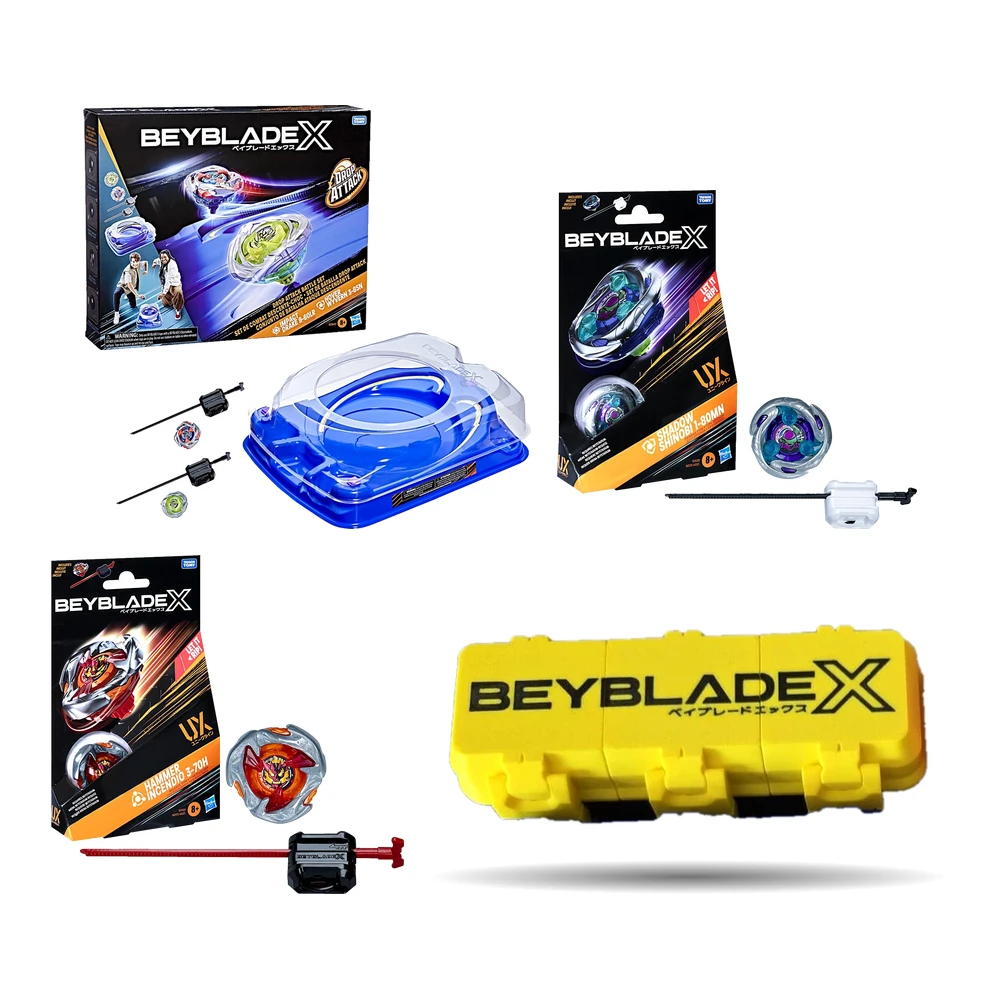
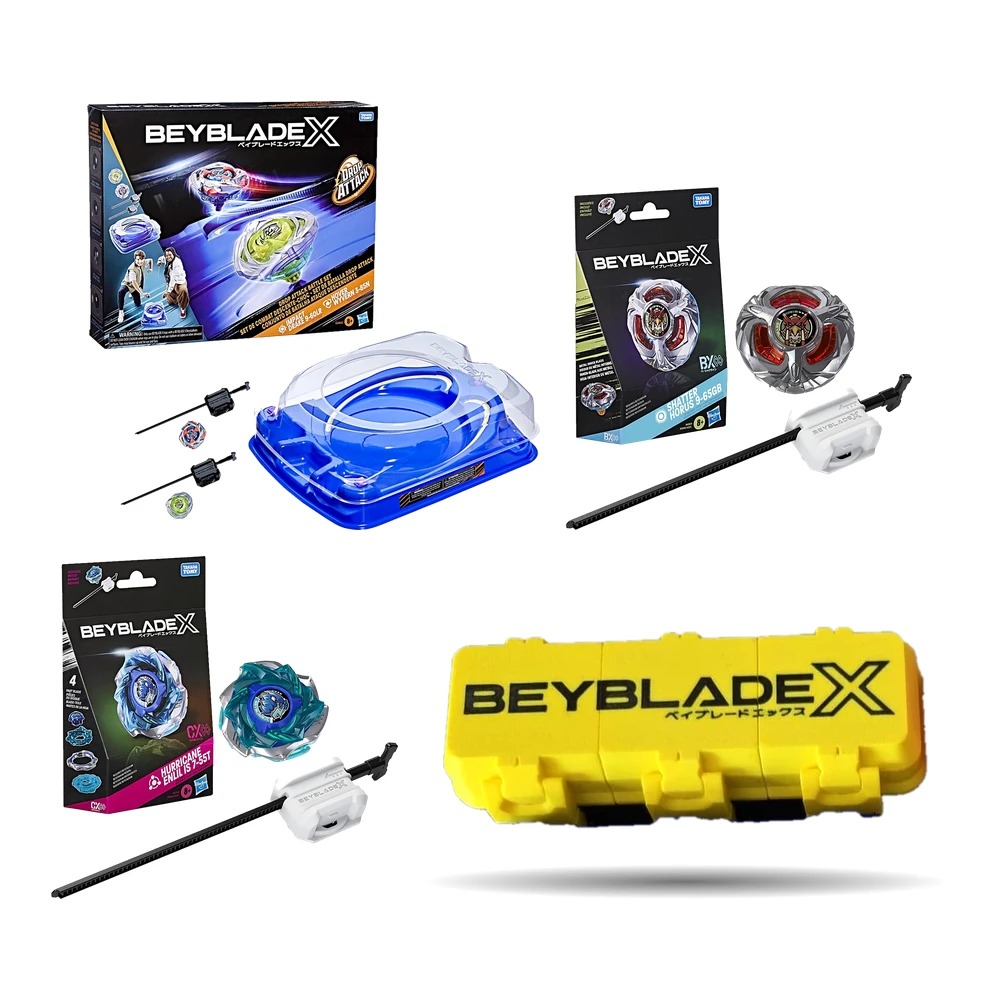
A Deck da Torneo at 59,90, kits that stop waiting on Hammer Incendio, and Phoenix and Cobalt Dragoon a few euros under the other shops
The owner, 19/11, on the proposal that came out of the sales, stock and competitor check: new packs
built on the deepest shelves, prices a few euros under the Italian competitors.

- Soar Phoenix 9-60GF 24,90 → 19,90 (other shops 24,99-30,49; ~180 on the shelf, 11 sold in 90 days).
- Cobalt Dragoon 2-60C 19,90 → 17,90 (Amazon asked 18,90 on 15/10).
- Deck da Torneo, new, first among the offers: Glory Valkerion + Cobalt Dragoon + Soar Phoenix +
  the yellow deck case at 59,90 instead of 75,79.
- The three kits all held Hammer Incendio, which is down to three pieces. The arena kits now carry
  Shatter Horus + Hurricane Enlil, the Kit Doppio Starter Shadow Shinobi + Shatter Horus: same sum
  of list prices, so every kit keeps its price and compare-at. Shadow stays in the Kit Doppio
  because Horus + Enlil + case would cost more than the Horus x Enlil duo with a case at the kit
  price beside it.
- Packs holding Phoenix or Cobalt keep their price; their compare-at and "Risparmi" follow the
  pieces (Pack Meta Luster 103,86, Phoenix 107,77, Silver Wolf 102,77, Deck Completo 41,88).

Pack shots from compose_bundle_images.py. Migration 20261119120000 mirrors the two prices in the
products table; bundles have no rows.

Changed region(s): [[0.062, 0.093, 0.93, 0.527], [0.434, 0.62, 0.93, 0.899], [0.031, 0.558, 0.403, 0.899]]

diff --git a/src/data/catalog.ts b/src/data/catalog.ts
@@ -393,7 +393,8 @@ export const PRODUCTS: readonly Product[] = [
   {
     slug: "cobalt-dragoon-2-60c", name: "Cobalt Dragoon 2-60C", tagline: "Attacco left-spin. Smash devastante.",
     description: "Cobalt Dragoon 2-60C è una trottola d'attacco a rotazione sinistra (left-spin): quattro lame inclinate verso l'alto concentrano uno Smash Attack estremo, mentre il Ratchet 2-60 e il Bit Cyclone bilanciano velocità e stabilità. Lo starter include il lanciatore a corda left-spin dedicato.",
-    price: eur(1990), category: "beyblade-x", bladeType: "attacco", stock: "disponibile", availableQuantity: 56, tags: [], rating: 0, reviewCount: 0,
+    // Owner, 2026-11-19: 19,90 → 17,90, under the 18,90 Amazon asked on 2026-10-15.
+    price: eur(1790), category: "beyblade-x", bladeType: "attacco", stock: "disponibile", availableQuantity: 56, tags: [], rating: 0, reviewCount: 0,
     images: productImages["cobalt-dragoon-2-60c"],
     specs: [{ label: "Tipo", value: "Attacco (left-spin)" }, { label: "Produttore", value: "Hasbro (prodotto originale)" }, { label: "Sistema", value: "Beyblade X" }, { label: "Codice", value: "2-60C" }, { label: "Componenti", value: "1 trottola, 1 lanciatore a corda" }, { label: "Materiale", value: "Plastica e metallo" }],
     features: [{ title: "Rotazione sinistra", description: "Left-spin che spiazza gli assetti a rotazione destra" }, { title: "Smash estremo", description: "Quattro lame inclinate per KO potenti" }, { title: "Starter completo", description: "Include il lanciatore a corda dedicato" }, { title: "Compatibile Beyblade X", description: "Blade, Ratchet e Bit intercambiabili con la serie" }],
@@ -496,7 +497,9 @@ export const PRODUCTS: readonly Product[] = [
   {
     slug: "soar-phoenix-9-60gf", name: "Soar Phoenix 9-60GF", tagline: "Upper attack. Colpisci verso l'alto.",
     description: "Soar Phoenix 9-60GF è una trottola d'attacco a tre lame che salgono verso l'alto per un Upper Attack capace di sollevare l'avversario, unito allo Smash che lo spinge fuori arena. Tra le blade più pesanti della serie. Lo starter include il lanciatore a corda.",
-    price: eur(2490), category: "beyblade-x", bladeType: "attacco", stock: "disponibile", availableQuantity: 199, tags: ["novita"], rating: 0, reviewCount: 0,
+    // Owner, 2026-11-19: 24,90 → 19,90. The other Italian shops ask 24,99-30,49 and the shelf holds
+    // ~180 of them, which sold 11 in 90 days at 24,90.
+    price: eur(1990), category: "beyblade-x", bladeType: "attacco", stock: "disponibile", availableQuantity: 199, tags: ["novita"], rating: 0, reviewCount: 0,
     images: productImages["soar-phoenix-9-60gf"],
     specs: [{ label: "Tipo", value: "Attacco" }, { label: "Produttore", value: "Hasbro (prodotto originale)" }, { label: "Sistema", value: "Beyblade X" }, { label: "Codice", value: "9-60GF" }, { label: "Componenti", value: "1 trottola, 1 lanciatore a corda" }, { label: "Materiale", value: "Plastica e metallo" }],
     features: [{ title: "Upper Attack", description: "Le tre lame sollevano l'avversario da terra" }, { title: "Peso elevato", description: "Massa che domina i confronti d'attacco" }, { title: "Starter completo", description: "Include il lanciatore a corda" }, { title: "Compatibile Beyblade X", description: "Blade, Ratchet e Bit intercambiabili con la serie" }],
@@ -544,6 +547,21 @@ export const PRODUCTS: readonly Product[] = [
  * only the fallback when live stock cannot be read.
  */
 export const BUNDLES: readonly Product[] = [
+  // Owner, 2026-11-19 ("Sì, procedi" on the proposal): three attack starters off the deepest shelves
+  // and a case, a few euros under what the other Italian shops ask for the same pieces. Glory
+  // Valkerion 19,99 + Cobalt Dragoon 17,90 + Soar Phoenix 19,90 + case 18,00 = compareAt 75,79;
+  // saving 15,89. Listed first: the newest offer leads the promotions row.
+  {
+    slug: "deck-da-torneo", name: "Deck da Torneo", tagline: "Tre attacchi e il porta deck. €15,89 in meno.",
+    description: "Tre starter d'attacco e la custodia per portarli al torneo: Glory Valkerion LF, attacco UX a rotazione destra con il Bit Low Flat che aggancia l'Xtreme Line; Cobalt Dragoon 2-60C, attacco a rotazione sinistra con lo Smash delle quattro lame inclinate e il suo lanciatore left-spin; Soar Phoenix 9-60GF, Upper Attack con tre lame che sollevano l'avversario. Ogni starter ha il suo lanciatore. Il porta deck giallo tiene tre trottole, una per scomparto. Richiede un Beystadium Beyblade X (venduto separatamente).",
+    price: eur(5990), compareAtPrice: eur(7579), category: "beyblade-x", stock: "disponibile", tags: ["offerta"], rating: 0, reviewCount: 0,
+    images: productImages["deck-da-torneo"],
+    specs: [{ label: "Contenuto", value: "3 starter, 3 lanciatori, 1 porta deck" }, { label: "Produttore", value: "Hasbro (prodotto originale)" }, { label: "Sistema", value: "Beyblade X" }, { label: "Codici", value: "LF · 2-60C · 9-60GF" }, { label: "Rotazione", value: "Cobalt Dragoon sinistra, le altre due destra" }, { label: "Porta deck", value: "Giallo, 3 scomparti, non ufficiale" }],
+    features: [{ title: "Tre modi di attaccare", description: "Xtreme Dash, Smash left-spin e Upper Attack" }, { title: "Tre starter completi", description: "Ogni trottola ha il suo lanciatore" }, { title: "Porta deck incluso", description: "Tre scomparti, uno per trottola" }, { title: "Risparmi €15,89", description: "€59,90 invece di €75,79 comprandoli separati" }],
+    boxContents: ["1 × Starter Glory Valkerion LF (trottola e lanciatore)", "1 × Starter Cobalt Dragoon 2-60C (trottola e lanciatore left-spin)", "1 × Starter Soar Phoenix 9-60GF (trottola e lanciatore a corda)", "1 × Porta Deck giallo", "Manuali"],
+    relatedSlugs: ["glory-valkerion-lf", "cobalt-dragoon-2-60c", "soar-phoenix-9-60gf"],
+    bundleOf: [{ slug: "glory-valkerion-lf", quantity: 1 }, { slug: "cobalt-dragoon-2-60c", quantity: 1 }, { slug: "soar-phoenix-9-60gf", quantity: 1 }, { slug: "porta-deck-giallo", quantity: 1 }],
+  },
   // Owner, 2026-11-18: packs that reach the free shipping on their own, with the meta pieces (Phoenix,
   // Luster, Glory Valkerion), and that move the Enlil nobody picks alone; "magari 42 euro luster +
   // enlil". The two Luster packs share its six pieces; the Phoenix pack stops at the Brachio's shelf.
@@ -561,77 +579,84 @@ export const BUNDLES: readonly Product[] = [
     bundleOf: [{ slug: "bx-52-luster-dragoon-6-60lc", quantity: 1 }, { slug: "hurricane-enlil-is-7-55t", quantity: 1 }],
   },
   {
-    // Luster 39,99 + Soar Phoenix 24,90 + Glory Valkerion 19,99 + Hover Wyvern 13,99 + Enlil 9,99 =
-    // compareAt 108,86; at 100,00 it clears FREE_SHIPPING_THRESHOLD alone. Saving 8,86.
+    // Luster 39,99 + Soar Phoenix 19,90 + Glory Valkerion 19,99 + Hover Wyvern 13,99 + Enlil 9,99 =
+    // compareAt 103,86 (Phoenix at 19,90 since 2026-11-19); at 100,00 it clears FREE_SHIPPING_THRESHOLD alone. Saving 3,86.
     slug: "pack-meta-luster", name: "Pack Meta Luster", tagline: "Cinque trottole a 100 €, spedizione gratuita.",
     description: "Il pack che da solo arriva a 100 € e spedisce gratis: Luster Dragoon 6-60LC di Takara Tomy, attacco a rotazione sinistra con il Winder Launcher L; Soar Phoenix 9-60GF, Upper Attack con il lanciatore a corda; Glory Valkerion LF, attacco UX con il lanciatore; Hover Wyvern 3-85N, difesa, imbustata e senza lanciatore; Hurricane Enlil IS 7-55T, bilanciata CX con il lanciatore. Cinque trottole tra attacco, difesa e bilanciata, quattro lanciatori. Richiede un Beystadium Beyblade X (venduto a parte).",
-    price: eur(10000), compareAtPrice: eur(10886), category: "beyblade-x", stock: "disponibile", availableQuantity: 6, tags: ["offerta"], rating: 0, reviewCount: 0,
+    price: eur(10000), compareAtPrice: eur(10386), category: "beyblade-x", stock: "disponibile", availableQuantity: 6, tags: ["offerta"], rating: 0, reviewCount: 0,
     images: productImages["pack-meta-luster"],
     specs: [{ label: "Contenuto", value: "5 trottole, 4 lanciatori" }, { label: "Produttore", value: "Takara Tomy e Hasbro (prodotti originali)" }, { label: "Sistema", value: "Beyblade X" }, { label: "Codici", value: "6-60LC · 9-60GF · LF · 3-85N · IS 7-55T" }, { label: "Spedizione", value: "Gratuita: il pack arriva già a 100 €" }, { label: "Nota", value: "Richiede un Beystadium (venduto a parte)" }],
-    features: [{ title: "Spedizione gratuita", description: "Da solo arriva a 100 €, la soglia della spedizione gratis" }, { title: "Lanciatore L incluso", description: "Luster Dragoon gira a sinistra e ha il suo lanciatore" }, { title: "Risparmi €8,86", description: "€100,00 invece di €108,86 comprandoli separati" }, { title: "Da sapere prima di comprare", description: "Hover Wyvern è imbustata, estratta dal Battle Set e senza lanciatore" }],
+    features: [{ title: "Spedizione gratuita", description: "Da solo arriva a 100 €, la soglia della spedizione gratis" }, { title: "Lanciatore L incluso", description: "Luster Dragoon gira a sinistra e ha il suo lanciatore" }, { title: "Risparmi €3,86", description: "€100,00 invece di €103,86 comprandoli separati" }, { title: "Da sapere prima di comprare", description: "Hover Wyvern è imbustata, estratta dal Battle Set e senza lanciatore" }],
     boxContents: ["1 × Starter Luster Dragoon 6-60LC (trottola, Winder Launcher L e Long Winder)", "1 × Starter Soar Phoenix 9-60GF (trottola e lanciatore a corda)", "1 × Starter Glory Valkerion LF (trottola e lanciatore)", "1 × Trottola Hover Wyvern 3-85N imbustata", "1 × Starter Hurricane Enlil IS 7-55T (trottola e lanciatore)"],
     relatedSlugs: ["bx-52-luster-dragoon-6-60lc", "pack-meta-phoenix", "duo-luster-enlil"],
     bundleOf: [{ slug: "bx-52-luster-dragoon-6-60lc", quantity: 1 }, { slug: "soar-phoenix-9-60gf", quantity: 1 }, { slug: "glory-valkerion-lf", quantity: 1 }, { slug: "hover-wyvern-3-85n", quantity: 1 }, { slug: "hurricane-enlil-is-7-55t", quantity: 1 }],
   },
   {
-    // Soar Phoenix 24,90 + Glory Valkerion 19,99 + Cobalt Dragoon 19,90 + Brachio Whip 28,00 + Shatter
-    // Horus 11,99 + Hurricane Enlil 9,99 = compareAt 114,77; at 100,00 it ships free. Saving 14,77.
+    // Soar Phoenix 19,90 + Glory Valkerion 19,99 + Cobalt Dragoon 17,90 + Brachio Whip 28,00 + Shatter
+    // Horus 11,99 + Hurricane Enlil 9,99 = compareAt 107,77 (prices of 2026-11-19); at 100,00 it ships free. Saving 7,77.
     slug: "pack-meta-phoenix", name: "Pack Meta Phoenix", tagline: "Sei trottole a 100 €, spedizione gratuita.",
     description: "Sei trottole a 100 €, spedizione gratuita compresa: Soar Phoenix 9-60GF, Upper Attack; Glory Valkerion LF, attacco UX; Cobalt Dragoon 2-60C, attacco a rotazione sinistra con il suo lanciatore left-spin; Brachio Whip OW5-70Nr dalla Random Booster CX-18 di Takara Tomy, stamina con il Bit Narrow, in un colore a sorpresa; Shatter Horus 9-65GB, stamina BX; Hurricane Enlil IS 7-55T, bilanciata CX. I cinque starter Hasbro hanno ognuno il suo lanciatore; Brachio Whip è solo la trottola, nella sua scatola sigillata. Richiede un Beystadium Beyblade X (venduto a parte).",
-    price: eur(10000), compareAtPrice: eur(11477), category: "beyblade-x", stock: "disponibile", availableQuantity: 13, tags: ["offerta"], rating: 0, reviewCount: 0,
+    price: eur(10000), compareAtPrice: eur(10777), category: "beyblade-x", stock: "disponibile", availableQuantity: 13, tags: ["offerta"], rating: 0, reviewCount: 0,
     images: productImages["pack-meta-phoenix"],
     specs: [{ label: "Contenuto", value: "6 trottole, 5 lanciatori" }, { label: "Produttore", value: "Hasbro e Takara Tomy (prodotti originali)" }, { label: "Sistema", value: "Beyblade X" }, { label: "Codici", value: "9-60GF · LF · 2-60C · OW5-70Nr · 9-65GB · IS 7-55T" }, { label: "Spedizione", value: "Gratuita: il pack arriva già a 100 €" }, { label: "Nota", value: "Richiede un Beystadium (venduto a parte)" }],
-    features: [{ title: "Spedizione gratuita", description: "Da solo arriva a 100 €, la soglia della spedizione gratis" }, { title: "Sei trottole, cinque lanciatori", description: "Attacco, left-spin, stamina e bilanciata nello stesso pacco" }, { title: "Risparmi €14,77", description: "€100,00 invece di €114,77 comprandoli separati" }, { title: "Da sapere prima di comprare", description: "Brachio Whip arriva in un colore a sorpresa e senza lanciatore" }],
+    features: [{ title: "Spedizione gratuita", description: "Da solo arriva a 100 €, la soglia della spedizione gratis" }, { title: "Sei trottole, cinque lanciatori", description: "Attacco, left-spin, stamina e bilanciata nello stesso pacco" }, { title: "Risparmi €7,77", description: "€100,00 invece di €107,77 comprandoli separati" }, { title: "Da sapere prima di comprare", description: "Brachio Whip arriva in un colore a sorpresa e senza lanciatore" }],
     boxContents: ["1 × Starter Soar Phoenix 9-60GF (trottola e lanciatore a corda)", "1 × Starter Glory Valkerion LF (trottola e lanciatore)", "1 × Starter Cobalt Dragoon 2-60C (trottola e lanciatore left-spin)", "1 × Random Booster CX-18 Brachio Whip (solo trottola, colore a sorpresa)", "1 × Starter Shatter Horus 9-65GB (trottola e lanciatore)", "1 × Starter Hurricane Enlil IS 7-55T (trottola e lanciatore)"],
     relatedSlugs: ["pack-meta-luster", "soar-phoenix-9-60gf", "cx-18-random-booster-brachio-whip"],
     bundleOf: [{ slug: "soar-phoenix-9-60gf", quantity: 1 }, { slug: "glory-valkerion-lf", quantity: 1 }, { slug: "cobalt-dragoon-2-60c", quantity: 1 }, { slug: "cx-18-random-booster-brachio-whip", quantity: 1 }, { slug: "shatter-horus-9-65gb", quantity: 1 }, { slug: "hurricane-enlil-is-7-55t", quantity: 1 }],
   },
   {
     // Owner, 2026-11-18, asked the same day: a pack for the two Silver Wolf too. Silver Wolf 34,99 +
-    // Soar Phoenix 24,90 + Glory Valkerion 19,99 + Cobalt Dragoon 19,90 + Hurricane Enlil 9,99 =
-    // compareAt 109,77; at 100,00 it ships free. Saving 9,77. Two of them, like the Silver Wolf.
+    // Soar Phoenix 19,90 + Glory Valkerion 19,99 + Cobalt Dragoon 17,90 + Hurricane Enlil 9,99 =
+    // compareAt 102,77 (prices of 2026-11-19); at 100,00 it ships free. Saving 2,77. Two of them, like the Silver Wolf.
     slug: "pack-meta-silver-wolf", name: "Pack Meta Silver Wolf", tagline: "Cinque starter a 100 €, spedizione gratuita.",
     description: "Cinque starter a 100 €, spedizione gratuita compresa: Silver Wolf 3-80FB di Takara Tomy, stamina con l'anello libero e il Bit Free Ball; Soar Phoenix 9-60GF, Upper Attack; Glory Valkerion LF, attacco UX; Cobalt Dragoon 2-60C, attacco a rotazione sinistra con il suo lanciatore left-spin; Hurricane Enlil IS 7-55T, bilanciata CX. Ogni starter ha il suo lanciatore: cinque trottole, cinque lanciatori. Richiede un Beystadium Beyblade X (venduto a parte).",
-    price: eur(10000), compareAtPrice: eur(10977), category: "beyblade-x", stock: "disponibile", availableQuantity: 2, tags: ["offerta"], rating: 0, reviewCount: 0,
+    price: eur(10000), compareAtPrice: eur(10277), category: "beyblade-x", stock: "disponibile", availableQuantity: 2, tags: ["offerta"], rating: 0, reviewCount: 0,
     images: productImages["pack-meta-silver-wolf"],
     specs: [{ label: "Contenuto", value: "5 trottole, 5 lanciatori" }, { label: "Produttore", value: "Takara Tomy e Hasbro (prodotti originali)" }, { label: "Sistema", value: "Beyblade X" }, { label: "Codici", value: "3-80FB · 9-60GF · LF · 2-60C · IS 7-55T" }, { label: "Spedizione", value: "Gratuita: il pack arriva già a 100 €" }, { label: "Nota", value: "Richiede un Beystadium (venduto a parte)" }],
-    features: [{ title: "Spedizione gratuita", description: "Da solo arriva a 100 €, la soglia della spedizione gratis" }, { title: "Cinque starter completi", description: "Ogni trottola ha il suo lanciatore" }, { title: "Risparmi €9,77", description: "€100,00 invece di €109,77 comprandoli separati" }, { title: "Da sapere prima di comprare", description: "Silver Wolf è giapponese: confezione e istruzioni in giapponese" }],
+    features: [{ title: "Spedizione gratuita", description: "Da solo arriva a 100 €, la soglia della spedizione gratis" }, { title: "Cinque starter completi", description: "Ogni trottola ha il suo lanciatore" }, { title: "Risparmi €2,77", description: "€100,00 invece di €102,77 comprandoli separati" }, { title: "Da sapere prima di comprare", description: "Silver Wolf è giapponese: confezione e istruzioni in giapponese" }],
     boxContents: ["1 × Starter Silver Wolf 3-80FB (trottola e Winder Launcher nero e argento)", "1 × Starter Soar Phoenix 9-60GF (trottola e lanciatore a corda)", "1 × Starter Glory Valkerion LF (trottola e lanciatore)", "1 × Starter Cobalt Dragoon 2-60C (trottola e lanciatore left-spin)", "1 × Starter Hurricane Enlil IS 7-55T (trottola e lanciatore)"],
     relatedSlugs: ["ux-08-silver-wolf-3-80fb", "pack-meta-luster", "pack-meta-phoenix"],
     bundleOf: [{ slug: "ux-08-silver-wolf-3-80fb", quantity: 1 }, { slug: "soar-phoenix-9-60gf", quantity: 1 }, { slug: "glory-valkerion-lf", quantity: 1 }, { slug: "cobalt-dragoon-2-60c", quantity: 1 }, { slug: "hurricane-enlil-is-7-55t", quantity: 1 }],
   },
   {
+    // 2026-11-19: Hammer Incendio (three left) gives way to Shatter Horus, same 11,99, so price and
+    // compare-at stay. Shadow Shinobi stays: Horus + Enlil + case would cost more than the Horus x Enlil
+    // duo with a case at the kit price beside it (17,99 + 15).
     slug: "kit-doppio-starter-deck", name: "Kit Doppio Starter", tagline: "Due starter e il porta deck. Pronti a sfidarsi.",
-    description: "Due starter Beyblade X completi di lanciatore, Shadow Shinobi 1-80MN e Hammer Incendio 3-70H, con il porta deck giallo per portarli in giro. Shadow Shinobi devia il colpo con tre lame lisce e il Bit MN la tiene in piedi; Hammer Incendio porta il peso sul bordo e colpisce dall'alto con tre lame rialzate: due modi opposti di stare in arena. Il porta deck tiene tre trottole, una per scomparto. Richiede un Beystadium Beyblade X (venduto separatamente).",
+    description: "Due starter Beyblade X completi di lanciatore, Shadow Shinobi 1-80MN e Shatter Horus 9-65GB, con il porta deck giallo per portarli in giro. Shadow Shinobi devia il colpo con tre lame lisce e il Bit MN la tiene in piedi; Shatter Horus è una stamina BX dalla forma rotonda, con il metallo esteso oltre i ganci: una incassa, l'altra resiste fino all'ultimo giro. Il porta deck tiene tre trottole, una per scomparto. Richiede un Beystadium Beyblade X (venduto separatamente).",
     price: eur(3690), compareAtPrice: eur(3998), category: "beyblade-x", stock: "disponibile", tags: ["offerta"], rating: 0, reviewCount: 0,
     images: productImages["kit-doppio-starter-deck"],
-    specs: [{ label: "Contenuto", value: "2 starter, 2 lanciatori, 1 porta deck" }, { label: "Produttore", value: "Hasbro (prodotto originale)" }, { label: "Sistema", value: "Beyblade X" }, { label: "Trottole incluse", value: "Shadow Shinobi 1-80MN, Hammer Incendio 3-70H" }, { label: "Porta deck", value: "Giallo, 3 scomparti, non ufficiale" }, { label: "Nota", value: "Richiede un Beystadium (venduto a parte)" }],
-    features: [{ title: "Due starter completi", description: "Ogni trottola ha il suo lanciatore con ripcord" }, { title: "Due assetti opposti", description: "Una corre sul bordo, l'altra tiene il centro" }, { title: "Porta deck incluso", description: "Tre scomparti, uno per trottola" }, { title: "Risparmi €3,08", description: "€36,90 invece di €39,98 comprandoli separati" }],
-    boxContents: ["1 × Starter Shadow Shinobi 1-80MN (trottola e lanciatore)", "1 × Starter Hammer Incendio 3-70H (trottola e lanciatore)", "1 × Porta Deck giallo", "Manuali"],
-    relatedSlugs: ["kit-arena-drop-completo", "shadow-shinobi-1-80mn", "hammer-incendio-3-70h"],
-    bundleOf: [{ slug: "shadow-shinobi-1-80mn", quantity: 1 }, { slug: "hammer-incendio-3-70h", quantity: 1 }, { slug: "porta-deck-giallo", quantity: 1 }],
+    specs: [{ label: "Contenuto", value: "2 starter, 2 lanciatori, 1 porta deck" }, { label: "Produttore", value: "Hasbro (prodotto originale)" }, { label: "Sistema", value: "Beyblade X" }, { label: "Trottole incluse", value: "Shadow Shinobi 1-80MN, Shatter Horus 9-65GB" }, { label: "Porta deck", value: "Giallo, 3 scomparti, non ufficiale" }, { label: "Nota", value: "Richiede un Beystadium (venduto a parte)" }],
+    features: [{ title: "Due starter completi", description: "Ogni trottola ha il suo lanciatore con ripcord" }, { title: "Difesa e stamina", description: "Una devia i colpi, l'altra dura più a lungo" }, { title: "Porta deck incluso", description: "Tre scomparti, uno per trottola" }, { title: "Risparmi €3,08", description: "€36,90 invece di €39,98 comprandoli separati" }],
+    boxContents: ["1 × Starter Shadow Shinobi 1-80MN (trottola e lanciatore)", "1 × Starter Shatter Horus 9-65GB (trottola e lanciatore)", "1 × Porta Deck giallo", "Manuali"],
+    relatedSlugs: ["kit-arena-drop-completo", "shadow-shinobi-1-80mn", "shatter-horus-9-65gb"],
+    bundleOf: [{ slug: "shadow-shinobi-1-80mn", quantity: 1 }, { slug: "shatter-horus-9-65gb", quantity: 1 }, { slug: "porta-deck-giallo", quantity: 1 }],
   },
   {
+    // 2026-11-19: the two starters are Shatter Horus and Hurricane Enlil instead of Shadow Shinobi and
+    // Hammer Incendio (three left): same 21,98 together, so price and compare-at stay.
     slug: "kit-arena-drop-completo", name: "Kit Arena Drop Attack", tagline: "Arena, quattro trottole e porta deck. Tutto in una volta.",
-    description: "Tutto per cominciare e non comprare altro: il Drop Attack Battle Set — il Beystadium con l'X-Celerator Rail rialzato che porta le trottole in alto per farle piombare sull'avversario, due trottole e due lanciatori — più due starter completi, Shadow Shinobi 1-80MN e Hammer Incendio 3-70H, e il porta deck giallo. In tutto quattro trottole e quattro lanciatori, con lo stadio per farle scontrare e la custodia per portarle in giro.",
+    description: "Tutto per cominciare e non comprare altro: il Drop Attack Battle Set — il Beystadium con l'X-Celerator Rail rialzato che porta le trottole in alto per farle piombare sull'avversario, due trottole e due lanciatori — più due starter completi, Shatter Horus 9-65GB e Hurricane Enlil IS 7-55T, e il porta deck giallo. In tutto quattro trottole e quattro lanciatori, con lo stadio per farle scontrare e la custodia per portarle in giro.",
     price: eur(7190), compareAtPrice: eur(7988), category: "beyblade-x", stock: "disponibile", tags: ["offerta"], rating: 0, reviewCount: 0,
     images: productImages["kit-arena-drop-completo"],
-    specs: [{ label: "Contenuto", value: "1 stadio, 4 trottole, 4 lanciatori, 1 porta deck" }, { label: "Produttore", value: "Hasbro (prodotto originale)" }, { label: "Sistema", value: "Beyblade X" }, { label: "Stadio", value: "Drop Attack Battle Set" }, { label: "Starter inclusi", value: "Shadow Shinobi 1-80MN, Hammer Incendio 3-70H" }, { label: "Porta deck", value: "Giallo, 3 scomparti, non ufficiale" }],
+    specs: [{ label: "Contenuto", value: "1 stadio, 4 trottole, 4 lanciatori, 1 porta deck" }, { label: "Produttore", value: "Hasbro (prodotto originale)" }, { label: "Sistema", value: "Beyblade X" }, { label: "Stadio", value: "Drop Attack Battle Set" }, { label: "Starter inclusi", value: "Shatter Horus 9-65GB, Hurricane Enlil IS 7-55T" }, { label: "Porta deck", value: "Giallo, 3 scomparti, non ufficiale" }],
     features: [{ title: "Si gioca subito", description: "Stadio, trottole e lanciatori in una sola scatola" }, { title: "Quattro trottole", description: "Le due del set più i due starter" }, { title: "Porta deck incluso", description: "Tre scomparti, uno per trottola" }, { title: "Risparmi €7,98", description: "€71,90 invece di €79,88 comprandoli separati" }],
-    boxContents: ["1 × Drop Attack Battle Set (stadio, 2 trottole, 2 lanciatori)", "1 × Starter Shadow Shinobi 1-80MN", "1 × Starter Hammer Incendio 3-70H", "1 × Porta Deck giallo", "Manuali"],
-    relatedSlugs: ["kit-doppio-starter-deck", "drop-attack-battle-set", "shadow-shinobi-1-80mn"],
-    bundleOf: [{ slug: "drop-attack-battle-set", quantity: 1 }, { slug: "shadow-shinobi-1-80mn", quantity: 1 }, { slug: "hammer-incendio-3-70h", quantity: 1 }, { slug: "porta-deck-giallo", quantity: 1 }],
+    boxContents: ["1 × Drop Attack Battle Set (stadio, 2 trottole, 2 lanciatori)", "1 × Starter Shatter Horus 9-65GB", "1 × Starter Hurricane Enlil IS 7-55T", "1 × Porta Deck giallo", "Manuali"],
+    relatedSlugs: ["kit-doppio-starter-deck", "drop-attack-battle-set", "duo-horus-enlil"],
+    bundleOf: [{ slug: "drop-attack-battle-set", quantity: 1 }, { slug: "shatter-horus-9-65gb", quantity: 1 }, { slug: "hurricane-enlil-is-7-55t", quantity: 1 }, { slug: "porta-deck-giallo", quantity: 1 }],
   },
   {
+    // 2026-11-19: the two starters are Shatter Horus and Hurricane Enlil instead of Shadow Shinobi and
+    // Hammer Incendio (three left): same 21,98 together, so price and compare-at stay.
     slug: "kit-arena-sneak-completo", name: "Kit Arena Sneak Attack", tagline: "Arena, quattro trottole e porta deck. Tutto in una volta.",
-    description: "Tutto per cominciare e non comprare altro: il Sneak Attack Battle Set — il Beystadium verde con il rail a scomparsa che devia le trottole in una nuova direzione, due trottole e due lanciatori — più due starter completi, Shadow Shinobi 1-80MN e Hammer Incendio 3-70H, e il porta deck giallo. In tutto quattro trottole e quattro lanciatori, con lo stadio per farle scontrare e la custodia per portarle in giro.",
+    description: "Tutto per cominciare e non comprare altro: il Sneak Attack Battle Set — il Beystadium verde con il rail a scomparsa che devia le trottole in una nuova direzione, due trottole e due lanciatori — più due starter completi, Shatter Horus 9-65GB e Hurricane Enlil IS 7-55T, e il porta deck giallo. In tutto quattro trottole e quattro lanciatori, con lo stadio per farle scontrare e la custodia per portarle in giro.",
     price: eur(7690), compareAtPrice: eur(8488), category: "beyblade-x", stock: "disponibile", tags: ["offerta"], rating: 0, reviewCount: 0,
     images: productImages["kit-arena-sneak-completo"],
-    specs: [{ label: "Contenuto", value: "1 stadio, 4 trottole, 4 lanciatori, 1 porta deck" }, { label: "Produttore", value: "Hasbro (prodotto originale)" }, { label: "Sistema", value: "Beyblade X" }, { label: "Stadio", value: "Sneak Attack Battle Set" }, { label: "Starter inclusi", value: "Shadow Shinobi 1-80MN, Hammer Incendio 3-70H" }, { label: "Porta deck", value: "Giallo, 3 scomparti, non ufficiale" }],
+    specs: [{ label: "Contenuto", value: "1 stadio, 4 trottole, 4 lanciatori, 1 porta deck" }, { label: "Produttore", value: "Hasbro (prodotto originale)" }, { label: "Sistema", value: "Beyblade X" }, { label: "Stadio", value: "Sneak Attack Battle Set" }, { label: "Starter inclusi", value: "Shatter Horus 9-65GB, Hurricane Enlil IS 7-55T" }, { label: "Porta deck", value: "Giallo, 3 scomparti, non ufficiale" }],
     features: [{ title: "Si gioca subito", description: "Stadio, trottole e lanciatori in una sola scatola" }, { title: "Quattro trottole", description: "Le due del set più i due starter" }, { title: "Porta deck incluso", description: "Tre scomparti, uno per trottola" }, { title: "Risparmi €7,98", description: "€76,90 invece di €84,88 comprandoli separati" }],
-    boxContents: ["1 × Sneak Attack Battle Set (stadio, 2 trottole, 2 lanciatori)", "1 × Starter Shadow Shinobi 1-80MN", "1 × Starter Hammer Incendio 3-70H", "1 × Porta Deck giallo", "Manuali"],
-    relatedSlugs: ["kit-doppio-starter-deck", "sneak-attack-battle-set", "shadow-shinobi-1-80mn"],
-    bundleOf: [{ slug: "sneak-attack-battle-set", quantity: 1 }, { slug: "shadow-shinobi-1-80mn", quantity: 1 }, { slug: "hammer-incendio-3-70h", quantity: 1 }, { slug: "porta-deck-giallo", quantity: 1 }],
+    boxContents: ["1 × Sneak Attack Battle Set (stadio, 2 trottole, 2 lanciatori)", "1 × Starter Shatter Horus 9-65GB", "1 × Starter Hurricane Enlil IS 7-55T", "1 × Porta Deck giallo", "Manuali"],
+    relatedSlugs: ["kit-doppio-starter-deck", "sneak-attack-battle-set", "duo-horus-enlil"],
+    bundleOf: [{ slug: "sneak-attack-battle-set", quantity: 1 }, { slug: "shatter-horus-9-65gb", quantity: 1 }, { slug: "hurricane-enlil-is-7-55t", quantity: 1 }, { slug: "porta-deck-giallo", quantity: 1 }],
   },
   {
     slug: "duo-pegasus-samurai", name: "Duo Lanciatori Speciali", tagline: "I due lanciatori che non trovi negli altri starter.",
@@ -669,13 +694,13 @@ export const BUNDLES: readonly Product[] = [
     bundleOf: [{ slug: "glory-valkerion-lf", quantity: 1 }, { slug: "buster-dran-5-70db", quantity: 1 }],
   },
   {
-    // 2026-10-14: Cobalt Dragoon 19,90 + Shadow Shinobi 9,99 + Impact Drake 13,99 = compareAt 43,88; saving 3,98.
+    // 2026-11-19: Cobalt Dragoon 17,90 + Shadow Shinobi 9,99 + Impact Drake 13,99 = compareAt 41,88; saving 1,98.
     slug: "deck-completo-meta", name: "Deck Completo", tagline: "Tre ruoli, un deck. Attacco, difesa, Low Rush.",
     description: "Tre trottole che coprono i tre ruoli di un deck: Cobalt Dragoon 2-60C, l'unico attacco a rotazione sinistra del catalogo; Shadow Shinobi 1-80MN, che devia il colpo invece di rimbalzarlo; e Impact Drake 9-60LR, che porta il Ratchet 9-60 e il Bit Low Rush. I due starter includono il proprio lanciatore; Impact Drake arriva imbustato, estratto dal Battle Set e senza lanciatore. Richiede un Beystadium Beyblade X (venduto separatamente).",
-    price: eur(3990), compareAtPrice: eur(4388), category: "beyblade-x", stock: "disponibile", availableQuantity: 26, tags: ["offerta"], rating: 0, reviewCount: 0,
+    price: eur(3990), compareAtPrice: eur(4188), category: "beyblade-x", stock: "disponibile", availableQuantity: 26, tags: ["offerta"], rating: 0, reviewCount: 0,
     images: productImages["deck-completo-meta"],
     specs: [{ label: "Tipo", value: "Attacco + Difesa + Attacco basso" }, { label: "Produttore", value: "Hasbro (prodotto originale)" }, { label: "Sistema", value: "Beyblade X" }, { label: "Codici", value: "2-60C · 1-80MN · 9-60LR" }, { label: "Componenti", value: "3 trottole, 2 lanciatori" }],
-    features: [{ title: "Un deck intero", description: "Tre ruoli diversi, non tre trottole a caso" }, { title: "Ratchet 9-60 e Bit Low Rush", description: "Due pezzi che girano spesso nelle build da torneo" }, { title: "Risparmi €3,98", description: "€39,90 invece di €43,88 comprandoli separati" }, { title: "Da sapere prima di comprare", description: "Impact Drake è imbustato, estratto dal Battle Set e senza lanciatore" }],
+    features: [{ title: "Un deck intero", description: "Tre ruoli diversi, non tre trottole a caso" }, { title: "Ratchet 9-60 e Bit Low Rush", description: "Due pezzi che girano spesso nelle build da torneo" }, { title: "Risparmi €1,98", description: "€39,90 invece di €41,88 comprandoli separati" }, { title: "Da sapere prima di comprare", description: "Impact Drake è imbustato, estratto dal Battle Set e senza lanciatore" }],
     boxContents: ["1 × Starter Cobalt Dragoon 2-60C (trottola e lanciatore)", "1 × Starter Shadow Shinobi 1-80MN (trottola e lanciatore)", "1 × Trottola Impact Drake 9-60LR imbustata"],
     relatedSlugs: ["impact-drake-9-60lr", "cobalt-dragoon-2-60c", "trio-starter-arena"],
     bundleOf: [{ slug: "cobalt-dragoon-2-60c", quantity: 1 }, { slug: "shadow-shinobi-1-80mn", quantity: 1 }, { slug: "impact-drake-9-60lr", quantity: 1 }],

diff --git a/tests/unit/preorder-catalog.test.ts b/tests/unit/preorder-catalog.test.ts
@@ -42,7 +42,7 @@ describe("reviewed catalogue", () => {
       // neither reads as scarce when it is not.
       { slug: "impact-drake-9-60lr", price: 1399, stock: "disponibile", availableQuantity: 100, rating: 0, reviewCount: 0 },
       { slug: "hover-wyvern-3-85n", price: 1399, stock: "disponibile", availableQuantity: 100, rating: 0, reviewCount: 0 },
-      { slug: "cobalt-dragoon-2-60c", price: 1990, stock: "disponibile", availableQuantity: 56, rating: 0, reviewCount: 0 },
+      { slug: "cobalt-dragoon-2-60c", price: 1790, stock: "disponibile", availableQuantity: 56, rating: 0, reviewCount: 0 },
       { slug: "blast-pegasus-a-tr", price: 2690, stock: "esaurito", availableQuantity: 0, rating: 0, reviewCount: 0 },
       { slug: "saber-samurai-2-70l", price: 2590, stock: "disponibile", availableQuantity: 16, rating: 0, reviewCount: 0 },
       { slug: "drop-attack-battle-set", price: 3990, stock: "disponibile", availableQuantity: 102, rating: 0, reviewCount: 0 },
@@ -75,7 +75,7 @@ describe("reviewed catalogue", () => {
       { slug: "suppress-superion-0-70lp", price: 2500, stock: "pre-ordine", availableQuantity: 5, rating: 0, reviewCount: 0 },
       { slug: "strike-dran-4-50ff", price: 2300, stock: "pre-ordine", availableQuantity: 9, rating: 0, reviewCount: 0 },
       { slug: "tread-croc-tq-5-50gn", price: 2500, stock: "pre-ordine", availableQuantity: 9, rating: 0, reviewCount: 0 },
-      { slug: "soar-phoenix-9-60gf", price: 2490, stock: "disponibile", availableQuantity: 199, rating: 0, reviewCount: 0 },
+      { slug: "soar-phoenix-9-60gf", price: 1990, stock: "disponibile", availableQuantity: 199, rating: 0, reviewCount: 0 },
       // Takara Tomy on consignment from the partner, two of each (owner, 2026-10-07).
       { slug: "cx-00-evangelion-deck-set", price: 13500, stock: "disponibile", availableQuantity: 2, rating: 0, reviewCount: 0 },
       { slug: "ux-00-glory-valkyrie-lf", price: 20500, stock: "disponibile", availableQuantity: 2, rating: 0, reviewCount: 0 },

diff --git a/tests/unit/duo-bundle.test.ts b/tests/unit/duo-bundle.test.ts
@@ -88,18 +88,21 @@ describe("bundle stock", () => {
       { slug: "hurricane-enlil-is-7-55t", quantity: 2 },
     ]);
     expect(piecesOf(horus, 3)).toEqual([{ slug: "shatter-horus-9-65gb", quantity: 3 }]);
-    // Hurricane Enlil is in five bundles since the packs of 2026-11-18, so a line of it has to
-    // decrement against all of them.
+    // Hurricane Enlil is in five bundles since the packs of 2026-11-18, and in both arena kits since
+    // 2026-11-19, so a line of it has to decrement against all of them.
     expect(bundlesContaining("hurricane-enlil-is-7-55t", BUNDLES).map((bundle) => bundle.slug)).toEqual([
       "duo-luster-enlil",
       "pack-meta-luster",
       "pack-meta-phoenix",
       "pack-meta-silver-wolf",
+      "kit-arena-drop-completo",
+      "kit-arena-sneak-completo",
       "duo-horus-enlil",
       "trio-starter-arena",
     ]);
-    // Glory Valkerion sells alone, in the Promo Attack (owner, 2026-10-08) and in both meta packs.
-    expect(bundlesContaining("glory-valkerion-lf", BUNDLES).map((bundle) => bundle.slug)).toEqual(["pack-meta-luster", "pack-meta-phoenix", "pack-meta-silver-wolf", "promo-attack"]);
+    // Glory Valkerion sells alone, in the Promo Attack (owner, 2026-10-08), in the meta packs and,
+    // since 2026-11-19, in the Deck da Torneo.
+    expect(bundlesContaining("glory-valkerion-lf", BUNDLES).map((bundle) => bundle.slug)).toEqual(["deck-da-torneo", "pack-meta-luster", "pack-meta-phoenix", "pack-meta-silver-wolf", "promo-attack"]);
   });
 });
 

diff --git a/tests/e2e/shop.spec.ts b/tests/e2e/shop.spec.ts
@@ -219,11 +219,12 @@ test.describe("search", () => {
     // Two Cobalts in the catalogue since the 2026-09-21 drop, since 2026-10-05 the Deck Completo
     // that contains one, since 2026-11-06 the BX-48 booster that can hold one, and since 2026-11-13
     // the left-only String Launcher L, which names Cobalt Dragoon as a top it launches, and since
-    // 2026-11-18 the Pack Meta Phoenix and the Pack Meta Silver Wolf, which hold one. The search finds
-    // all seven; the two actually named Cobalt rank above the ones that only mention it.
+    // 2026-11-18 the Pack Meta Phoenix and the Pack Meta Silver Wolf, which hold one, and since
+    // 2026-11-19 the Deck da Torneo. The search finds all eight; the two actually named Cobalt rank
+    // above the ones that only mention it.
     await page.goto("/ricerca?q=cobalt");
     await expect(page.getByTestId("search-results")).toBeVisible();
-    await expect(page.getByTestId("product-card")).toHaveCount(7);
+    await expect(page.getByTestId("product-card")).toHaveCount(8);
     await expect(page.getByTestId("product-card").nth(0)).toContainText("Cobalt");
     await expect(page.getByTestId("product-card").nth(1)).toContainText("Cobalt");
     await expect(page.getByTestId("search-results")).toContainText("Cobalt Dragoon");

diff --git a/src/data/assets.ts b/src/data/assets.ts
@@ -235,12 +235,20 @@ export const productImages = {
       alt: "Confezione Beyblade X Wand Wizard 1-60R con trottola verde e lanciatore",
     },
   ],
+  "deck-da-torneo": [
+    {
+      src: "/products/deck-da-torneo.webp",
+      width: 1000,
+      height: 1000,
+      alt: "Deck da Torneo: starter Glory Valkerion LF, Cobalt Dragoon 2-60C e Soar Phoenix 9-60GF con il porta deck giallo",
+    },
+  ],
   "kit-doppio-starter-deck": [
     {
       src: "/products/kit-doppio-starter-deck.webp",
       width: 1000,
       height: 1000,
-      alt: "Kit con gli starter Sword Dran 3-60F e Helm Knight 3-80N e il porta deck",
+      alt: "Kit con gli starter Shadow Shinobi 1-80MN e Shatter Horus 9-65GB e il porta deck",
     },
   ],
   "kit-arena-drop-completo": [

diff --git a/tests/unit/mock-provider.test.ts b/tests/unit/mock-provider.test.ts
@@ -67,9 +67,10 @@ describe("listProducts", () => {
   });
 
   it("requires every search token to match", async () => {
-    // Only the Phoenix and Silver Wolf packs (2026-11-18) hold both a Cobalt and a Phoenix.
+    // Only the Phoenix and Silver Wolf packs (2026-11-18) and the Deck da Torneo (2026-11-19) hold
+    // both a Cobalt and a Phoenix.
     const page = await provider.listProducts({ search: "cobalt phoenix" });
-    expect(page.items.map((product) => product.slug).sort()).toEqual(["pack-meta-phoenix", "pack-meta-silver-wolf"]);
+    expect(page.items.map((product) => product.slug).sort()).toEqual(["deck-da-torneo", "pack-meta-phoenix", "pack-meta-silver-wolf"]);
   });
 
   it("returns nothing for a search that matches nothing", async () => {

diff --git a/scripts/compose_bundle_images.py b/scripts/compose_bundle_images.py
@@ -38,21 +38,29 @@ DECK_CASE_BAND = (60, 150, 940, 600)
 
 # bundle slug -> its component cut-outs, in the order they are staged, each with a relative weight.
 BUNDLES: dict[str, tuple[tuple[str, float], ...]] = {
+    # Owner, 2026-11-19: three attack starters and a case.
+    "deck-da-torneo": (
+        ("glory-valkerion-lf", 1.0),
+        ("cobalt-dragoon-2-60c", 1.0),
+        ("soar-phoenix-9-60gf", 1.0),
+        ("porta-deck-case", 0.8),
+    ),
+    # 2026-11-19: Hammer Incendio (three left) out of the kits; Horus, and Enlil in the arena kits.
     "kit-doppio-starter-deck": (
         ("shadow-shinobi-1-80mn", 1.0),
-        ("hammer-incendio-3-70h", 1.0),
+        ("shatter-horus-9-65gb", 1.0),
         ("porta-deck-case", 0.8),
     ),
     "kit-arena-drop-completo": (
         ("drop-attack-battle-set", 1.25),
-        ("shadow-shinobi-1-80mn", 1.0),
-        ("hammer-incendio-3-70h", 1.0),
+        ("shatter-horus-9-65gb", 1.0),
+        ("hurricane-enlil-is-7-55t", 1.0),
         ("porta-deck-case", 0.8),
     ),
     "kit-arena-sneak-completo": (
         ("sneak-attack-battle-set", 1.25),
-        ("shadow-shinobi-1-80mn", 1.0),
-        ("hammer-incendio-3-70h", 1.0),
+        ("shatter-horus-9-65gb", 1.0),
+        ("hurricane-enlil-is-7-55t", 1.0),
         ("porta-deck-case", 0.8),
     ),
     "duo-pegasus-samurai": (
